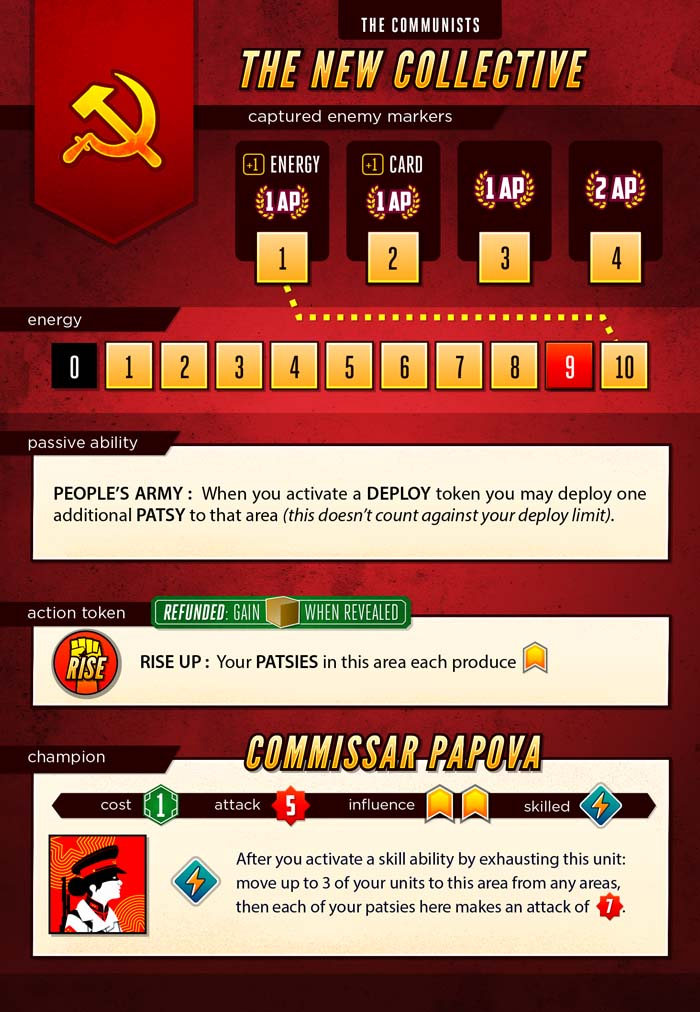
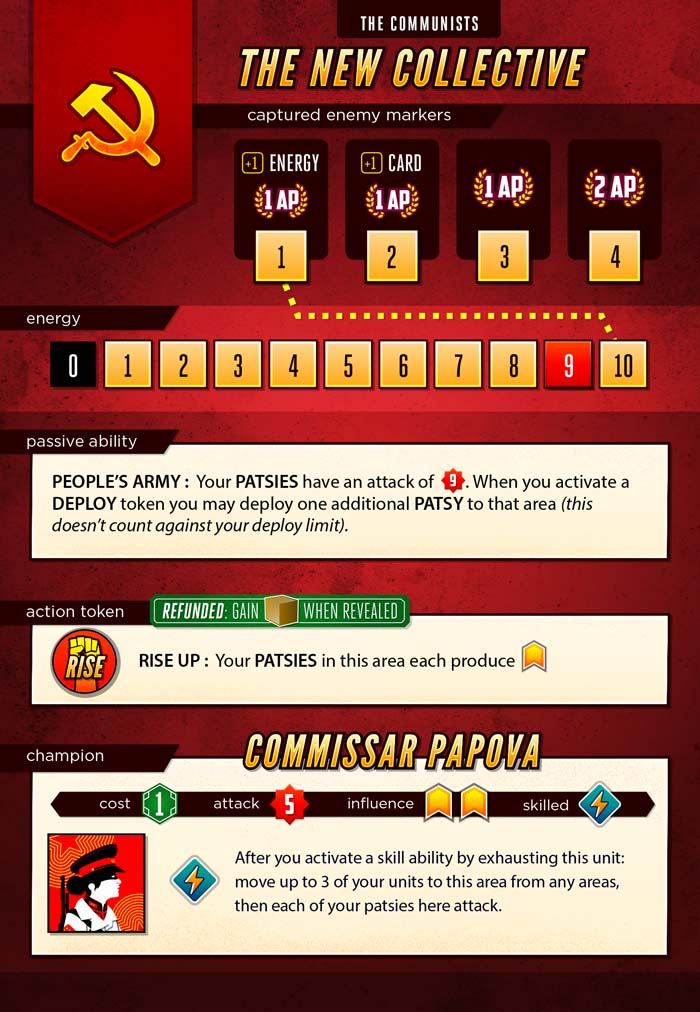
Give commie patsies an attack of 9

diff --git a/server/classes/factions/Commies.js b/server/classes/factions/Commies.js
@@ -33,6 +33,7 @@ class Commies extends Faction {
         this.units['mole'].count = 4;
         this.units['talent'].count = 2;
         this.units['patsy'].count = 12;
+        this.units['patsy'].data.attack = [9];
         this.units['champion'] = {
             count: 1,
             data: {
@@ -108,14 +109,24 @@ class Commies extends Faction {
         let area = this.game().areas[event.unit.location];
 
         // get the count of patsies we have in this area, and if we have none abort
-        let patsiesInAreaCount = this.unitsInArea( area, { type : 'patsy' } ).length;
-        if( !patsiesInAreaCount ){
+        let patsiesInArea = this.unitsInArea( area, { type : 'patsy' } );
+        if( !patsiesInArea.length ){
             this.message( 'has no patsies to riot', { class : 'warning' } );
             return;
         }
 
-        await this.nonCombatAttack( this.data.commisarPatsyAttackValue, patsiesInAreaCount, area )
-            .catch( error => console.error( error ) );
+        for( let unit of patsiesInArea ){
+            // resolve attack with that unit
+            await this.attack({
+                area : area,
+                attacks : unit.attack,
+                unit : unit,
+                attackBonus: 2,
+            });
+        }
+
+
+       // await this.nonCombatAttack( this.data.commisarPatsyAttackValue, patsiesInAreaCount, area ).catch( error => console.error( error ) );
     }
 
     /**
